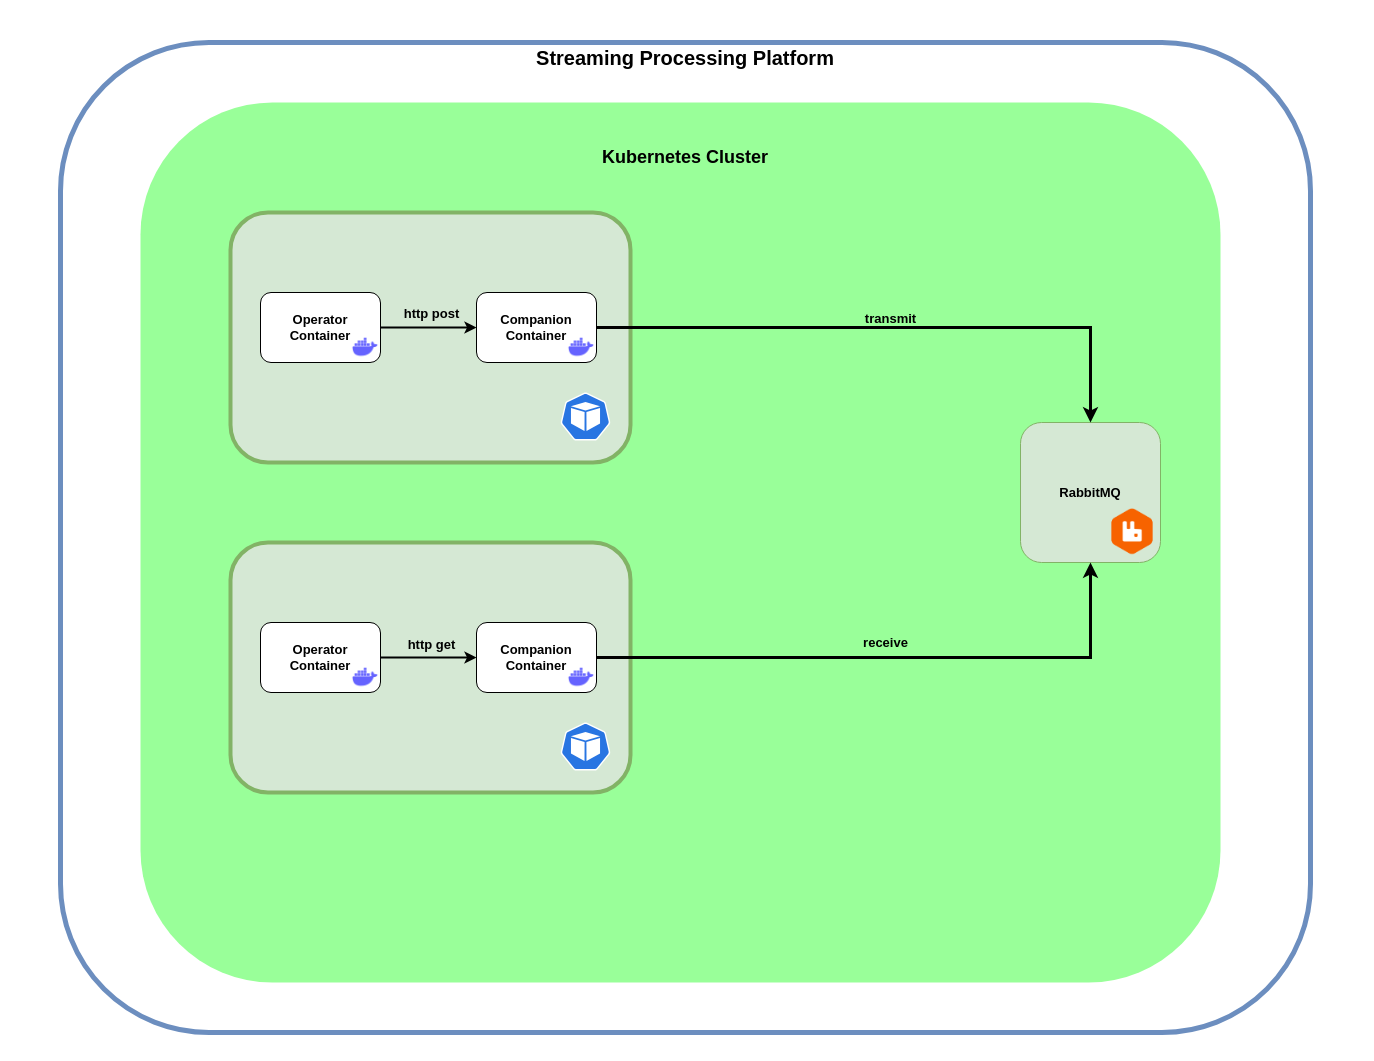
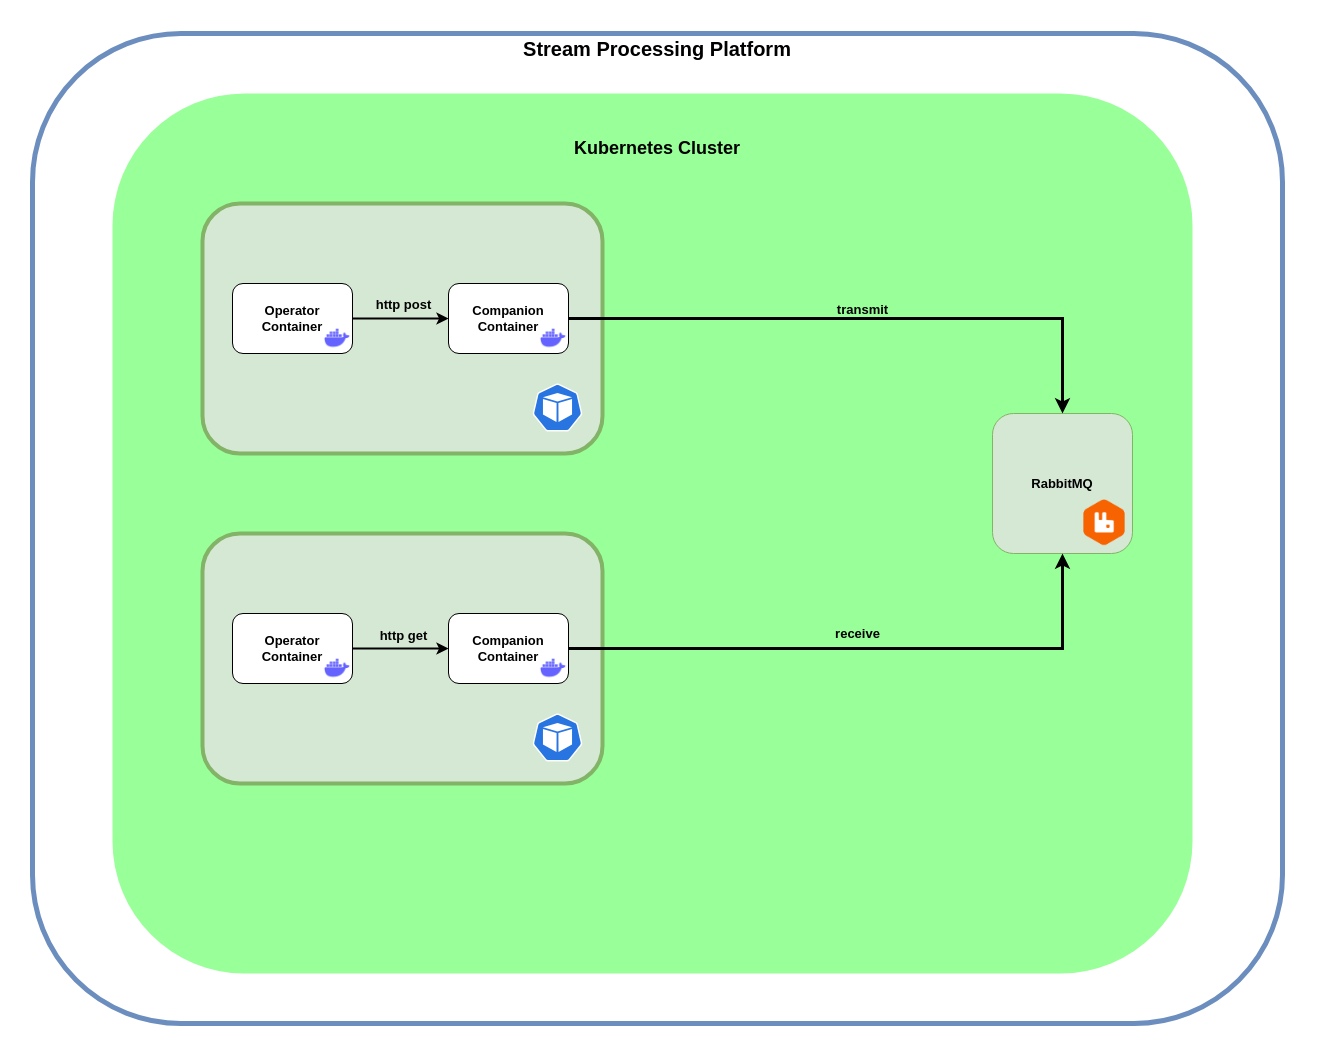
update documenation

diff --git a/companion/Interface.py b/companion/Interface.py
@@ -18,7 +18,7 @@ termination = os.getenv("TERMINATION_QUEUE", "#termination")
 def post():
     json_string = flask.request.json
     json_data = json.loads(json_string)
-    if json_data.get("status") and termination is not None:
+    if json_data.get("status") and termination!="#termination":
         logging.info(json_string)
         publish.publish_message(json_string, termination)
     if json_data.get("status") is None:

diff --git a/operator/Interface.py b/operator/Interface.py
@@ -14,7 +14,8 @@ pod_ip = os.getenv("MY_POD_IP", "192.168.1.2")
 api_port = os.getenv("API_PORT", "4321")
 publish_path = os.getenv("PUBLISH_PATH", "/post_message")
 consume_path = os.getenv("CONSUME_PATH", "/get_message")
-
+pod_name = os.getenv("MY_POD_NAME", "#name")
+namespace = os.getenv("MY_POD_NAMESPACE", "#namespace")
 
 def send(message):
     ip = 'http://' + pod_ip + ':' + api_port + publish_path

diff --git a/operator/README.md b/operator/README.md
@@ -1,16 +1,139 @@
 ## Description
 
-This dummy operator, intended for deployment in Streaming Processing, is meant to be placed within the same container as the publish operator in a pod. Its sole purpose is to facilitate the exchange of messages on a RabbitMQ broker and does not involve any sophisticated operations since our primary objective is to test communication between the two containers.
+This dummy operator, intended for deployment in Streaming Processing, is meant to be placed within the same container as the companion container in a pod. Its sole purpose is to facilitate the exchange of messages on a RabbitMQ broker and does not involve any sophisticated operations since our primary objective is to test communication between the two containers.
 
 ## dummy_operator.py
-This represents the main script within the example container, employing a function named <mark>receive_connection()</mark>. This function is crafted to establish a connection with the queue specified in the TOSCA model, enabling the retrieval of messages. The companion container's endpoint details are provided via environment variables: <mark>MY_POD_IP</mark>, <mark>API_PORT</mark>, and <mark>CONSUME_PATH</mark>.
+This represents the main script within the example container, employing a function named `receive_connection()`. This function is crafted to establish a connection with the queue specified in the TOSCA model, enabling the retrieval of messages. The companion container's endpoint details are provided via environment variables: `MY_POD_IP`, `API_PORT`, and `CONSUME_PATH`.
 
-To facilitate message reception, the operator container must feature an HTTP Post endpoint. To meet this requirement, the <a href=https://github.com/f-coda/Stream-Processing/blob/main/operator/dummy_operator.py>dummy_operator</a> operates <a href=https://github.com/f-coda/Stream-Processing/blob/main/operator/Interface.py>Interface.py</a> as a separate thread, employing the <mark>start_service()</mark> function.
+To facilitate message reception, the operator container must feature an HTTP Post endpoint. To meet this requirement, the <a href=https://github.com/f-coda/Stream-Processing/blob/main/operator/dummy_operator.py>dummy_operator</a> operates <a href=https://github.com/f-coda/Stream-Processing/blob/main/operator/Interface.py>Interface.py</a> as a separate thread, employing the `start_service()` function.
 
 ## Interface.py
 
-This script is designed to support two essential functions: sending and receiving messages. The sending process is executed through the <mark>send(message)</mark> function, which sends messages individually. For message reception, the example container employs a function called <mark>post()</mark>, establishing an HTTP Post endpoint named <mark>/post_message</mark>. This endpoint handles messages one at a time, storing them in a list.
+This script is designed to support two essential functions: sending and receiving messages. The sending process is executed through the `send(message)` function, which sends messages individually. For message reception, the example container employs a function called `post()`, establishing an HTTP Post endpoint named `/post_message`. This endpoint handles messages one at a time, storing them in a list.
 
+### Messages
+Our platform necessitates operators to exchange messages for effective communication. There are two message types within our platform:
+
+1. Messages exchanged between operators.
+2. Reporting messaged on the termination topic. 
+
+The output topic is meant to store the operation results. Developers are expected to utilize the JSON format, although there is no fixed structure they must follow. For example, an operator responsible for compression could send a message resembling the following format:
+
+``` json
+{"pod": "compressor","operation": "compressed messages"}
+```
+The termination message, found in the termination topic, should include the pod's name, its parent namespace, and the operation status marked as `ended`. The structure is as follows:
+``` json
+ {"pod": "compressor", "namespace": "test", "status": "ended"}
+ ```
+Developers can extract the pod name and namespace from the `MY_POD_NAME` and `MY_POD_NAMESPACE` environment variables.
+
+### How to send messages
+The provided code serves as an illustration of how to modify Interface.py to create a custom operator. In our specific scenario, this code successfully executed compression when the message count reached 1000. Additionally, it performed another compression when it received the message `{"transmission":"ended"}` from its input queue. This particular message indicated that there was no more data to be transmitted, as communicated by the preceding operator.
+
+During the final compression process, the operator dispatched both messages to its designated output queue and the termination queue. Developers are not required to specify the destination queue for the messages; this task is autonomously handled by the companion container.
+
+Using the sleep command after dispatching a message on the termination queue is essential. This measure acts as a failsafe, guaranteeing that the operator refrains from processing any additional messages.
+``` python
+import logging
+import os
+import time
+import threading
+from multiprocessing import Process
+
+import ais_manipulator
+import flask
+from flask import Flask
+import dummy_operator
+import json
+
+app = Flask(__name__)
+message_list = []
+logging.getLogger().setLevel(logging.INFO)
+pod_name = os.getenv("MY_POD_NAME", "#name")
+namespace = os.getenv("MY_POD_NAMESPACE", "#namespace")
+
+
+def data_format(dict_from_string):
+    mmsi = dict_from_string.get('mmsi')
+    imo = dict_from_string.get('imo')
+    dict_from_string["imo"] = int(imo)
+    navigational_status = dict_from_string.get('navigational_status')
+    dict_from_string["navigational_status"] = int(navigational_status)
+    longitude = dict_from_string.get('longitude')
+    dict_from_string["longitude"] = float(longitude)
+    latitude = dict_from_string.get('latitude')
+    dict_from_string["latitude"] = float(latitude)
+    heading = dict_from_string.get('heading')
+    dict_from_string["heading"] = float(heading)
+    cog = dict_from_string.get('cog')
+    dict_from_string["cog"] = float(cog)
+    sog = dict_from_string.get('sog')
+    dict_from_string["sog"] = float(sog)
+    ship_type = dict_from_string.get('ship_type')
+    dict_from_string["ship_type"] = int(ship_type)
+    draught = dict_from_string.get('draught')
+    dict_from_string["draught"] = float(draught)
+    size_bow = dict_from_string.get('size_bow')
+    dict_from_string["size_bow"] = int(size_bow)
+    size_stern = dict_from_string.get('size_stern')
+    dict_from_string["size_stern"] = int(size_stern)
+    size_port = dict_from_string.get('size_port')
+    dict_from_string["size_port"] = int(size_port)
+    size_starboard = dict_from_string.get('size_starboard')
+    dict_from_string["size_starboard"] = int(size_starboard)
+    anchored = dict_from_string.get('anchored')
+    dict_from_string["anchored"] = float(anchored)
+    manoeuvring = dict_from_string.get('manoeuvring')
+    dict_from_string["manoeuvring"] = float(manoeuvring)
+    moored = dict_from_string.get('moored')
+    dict_from_string["moored"] = float(moored)
+    underway = dict_from_string.get('underway')
+    dict_from_string["underway"] = float(underway)
+
+    return dict_from_string
+
+
+def handle_request(dict_from_string):
+    message_list.append(dict_from_string)
+    # [dict(t) for t in {tuple(d.items()) for d in message_list}]
+    logging.info('message_list_size: ' + str(len(message_list)))
+    if len(message_list) > 1000:
+        ais_manipulator.compression_procedure(message_list)
+        logging.info('compression ended')
+        dummy_operator.send(
+            {'pod': pod_name, 'namespace': namespace, 'messages': len(message_list), 'status': 'compression ended'})
+        message_list.clear()
+        time.sleep(200)
+
+
+@app.route("/post_message", methods=["POST"])
+def post():
+    json_data = flask.request.get_json()
+    logging.info(type(json_data))
+    if json_data != '{"transmission": "ended"}':
+        dict_from_string = json.loads(json_data)
+        dict_from_string = data_format(dict_from_string)
+        handle_request(dict_from_string)
+        return 'message received'
+
+    if json_data == '{"transmission": "ended"}':
+        logging.info('transmission ended')
+        if len(message_list) > 0:
+            ais_manipulator.compression_procedure(message_list)
+            logging.info('compression ended')
+            dummy_operator.send(
+                {'pod': pod_name, 'namespace': namespace, 'status': 'ended'})
+            dummy_operator.send({'pod':pod_name,'operation': 'compressed ' + str(len(message_list)) + " messages"})
+            message_list.clear()
+            time.sleep(200)
+        return 'transmission ended'
+
+
+
+app.run(host="0.0.0.0", port=4322, debug=False, use_reloader=False, threaded=False)
+
+```
 ## Build image
 
 Each operator needs to be dockerized and hosted in a public repository. Otherwise, our Stream Processing Platform will not be able to access it.

diff --git a/converter_streams/README.md b/converter_streams/README.md
@@ -25,7 +25,7 @@ Operator-1 is connected with Host-1 via host requirement. Similarly, Operator-2 
 | port          | It lists the ports utilized by an operator.                                                                                                             |
 | requirements  | It encompasses the host requirement linking an Operator with a Host, detailing the hardware prerequisites of the Operator.r                   |
 
-b>Host Descriptions:</b>
+<b>Host Descriptions:</b>
 
 | Capabilities | Meaning                                                                       |
 |--------------|-------------------------------------------------------------------------------|
@@ -129,6 +129,7 @@ The code for Sommelier can be found in this <a href=https://github.com/di-unipi-
 2. The temporary file is sent to Sommelier Validator through the `validation(path)` function in the <a href=https://github.com/f-coda/Stream-Processing/blob/main/converter_streams/sommelier.py>sommelier.py</a> script. This function validates TOSCA models in YAML format. Sommelier is capable of validating TOSCA models based on the definitions of the objects it recognizes.
 3. If the submitted model is valid, the `ReadFile(content)` function from the <a href=https://github.com/f-coda/Stream-Processing/blob/main/converter_streams/Parser.py>Parser.py</a> script is invoked by REST-API.py. This function parses the model and creates lists containing the corresponding semantics.
 4. Following this, REST-API.py invokes two functions from <a href=https://github.com/f-coda/Stream-Processing/blob/main/converter_streams/Converter.py>Converter.py</a> to produce the relevant Kubernetes YAML files. The first function, `namespace(namespace)`, generates the namespace responsible for hosting the application and sets up the necessary vhost on RabbitMQ. The second function, called `Converter.tosca_to_k8s(operator_list, host_list, namespace)`, retrieves lists of semantics describing operators/applications and hosts, in addition to the generated namespace. These details are utilized to deploy applications along with companion containers on the platform.
-5. Subsequently, REST-API.py repeatedly invokes the `apply(data)` function from <a href=https://github.com/f-coda/Stream-Processing/blob/main/converter_streams/Kubernetes.py>Kubernetes.py</a> to deploy the generated files onto the Kubernetes cluster. The same function is being utilized to create configmaps that will configure the deployed containers to communicate with their companion container pair.
-6. REST-API.py employs the `write_rules_config(operator_list)` function from the <a href=https://github.com/f-coda/Stream-Processing/blob/main/converter_streams/KEDA.py>KEDA.py</a> script. This function generates KEDA YAML files, encapsulating scale rules for the operators derived from the description provided in TOSCA models.
-7. In the final step, REST-API.py utilizes its custom function called `edit_instancemanager_list(operator_list, output_queue_list)` to determine which operators need to scale and what their corresponding output queues are. Subsequently, it executes the `configure_instancemanager(list)` function to organize the output_list. It then sends each JSON object from the list, containing the application's namespace, output queue, operator's position in the workflow, and the operator's name, to the Instancemanager. Each K3s namespace has its dedicated vhost on RabbitMQ. The Instance Manager subscribes to this vhost and monitors the reported queues, identifying the instance pod that has completed its computations. Subsequently, it terminates this specific pod.
+5. In the preceding phase, the Converter additionally creates a virtual host on RabbitMQ, segregating RabbitMQ for each application. It generates the designated output and input queues outlined in the TOSCA model, along with a termination queue. Each streaming application will possess its own termination queue, through which it will signal whether an operator has executed at least one of time its operation.
+6. Subsequently, REST-API.py repeatedly invokes the `apply(data)` function from <a href=https://github.com/f-coda/Stream-Processing/blob/main/converter_streams/Kubernetes.py>Kubernetes.py</a> to deploy the generated files onto the Kubernetes cluster. The same function is being utilized to create configmaps that will configure the deployed containers to communicate with their companion container pair.
+7. REST-API.py employs the `write_rules_config(operator_list)` function from the <a href=https://github.com/f-coda/Stream-Processing/blob/main/converter_streams/KEDA.py>KEDA.py</a> script. This function generates KEDA YAML files, encapsulating scale rules for the operators derived from the description provided in TOSCA models.
+8. In the final step, REST-API.py utilizes its custom function called `edit_instancemanager_list(operator_list, output_queue_list)` to determine which operators need to scale and what their corresponding output queues are. Subsequently, it executes the `configure_instancemanager(list)` function to organize the output_list. It then sends each JSON object from the list, containing the application's namespace, output queue, operator's position in the workflow, and the operator's name, to the Instancemanager. Each K3s namespace has its dedicated vhost on RabbitMQ. The Instance Manager subscribes to this vhost and monitors the reported queues, identifying the instance pod that has completed its computations. Subsequently, it terminates this specific pod.

diff --git a/instancemanager/README.md b/instancemanager/README.md
@@ -1,3 +1,3 @@
 ## Instance Manager
 
-The Instance Manager functions as a service capable of initiating processes when prompted via the `/init` endpoint within the `receive_data()` function of the <a href=https://github.com/f-coda/Stream-Processing/blob/main/instancemanager/main.py>main.py</a> script. These processes are designed to retrieve data from reported queues. Essentially, these processes act as subscribers to result queues located on separate vhosts. Each vhost hosts multiple result queues, corresponding to the output of different operators. Notably, the Instance Manager specifically monitors output queues associated with operators that have at least one scaling rule in place.
+The Instance Manager functions as a service capable of initiating processes when prompted via the `/init` endpoint within the `receive_data()` function of the <a href=https://github.com/f-coda/Stream-Processing/blob/main/instancemanager/main.py>main.py</a> script. These processes are designed to retrieve data from reported queues. Essentially, these processes act as subscribers to result termination queues located on separate vhosts. Each vhost host has one termination queue, in which operators should report if they have finished their operation.

diff --git a/companion/README.md b/companion/README.md
@@ -3,6 +3,7 @@
 The companion container facilitates message transmission and reception through two HTTP endpoints, leveraging the RabbitMQ broker:
 * `/post_message`: This method invokes the `publish_message(data,queue)` function from the 
 <a href=https://github.com/f-coda/Stream-Processing/blob/main/companion/publish.py>publish.py</a> script to send a message to the specified queue.
+This method verifies whether the JSON message is intended for an output queue specified in the TOSCA model or if it should be dispatched to the termination queue. If the JSON message includes the status key, it indicates that it should be sent to the termination queue.
 * `/get_message`: This method calls the `consume_message(queue)` function from the 
 <a href=https://github.com/f-coda/Stream-Processing/blob/main/companion/consume.py>consumer.py</a> script to prefetch 10 messages from the designated queue. It then sends these messages back to the operator one by one.
 

diff --git a/README.md b/README.md
@@ -4,7 +4,7 @@ Stream-Processing, operating as a Function as a Service (FaaS) solution, empower
 
 
 ## Architecture
-![alt text](Streaming%20Processing%20v3.drawio.png)
+![alt text](Stream%20Processing%20v4.drawio.png)
 
 ## Agnostic to Programming Languages
 
